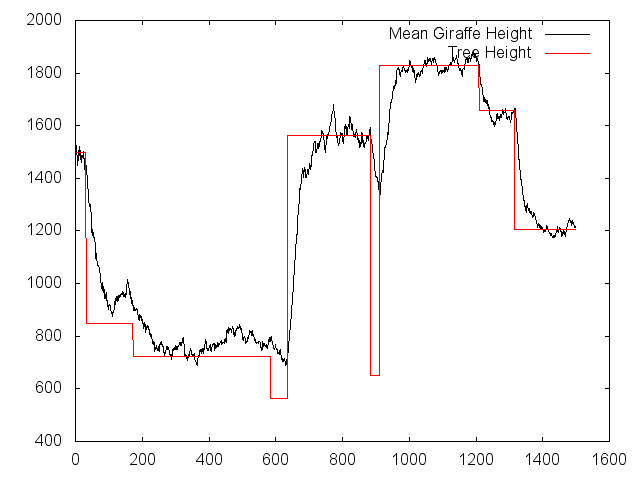
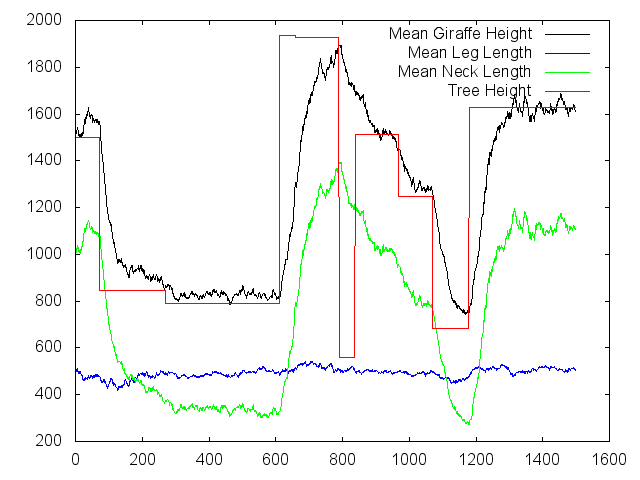
Legs are not necks and necks are not legs, but together they are bugs

diff --git a/src/statistics.rs b/src/statistics.rs
@@ -1,5 +1,5 @@
-extern crate gnuplot;
-extern crate statistical;
+use gnuplot;
+use statistical;
 
 use traits::HasColor;
 use traits::HasHeight;
@@ -12,6 +12,8 @@ pub struct Statistics {
     color_std_deviations:  Vec<f64>,
     height_means:          Vec<f64>,
     height_std_deviations: Vec<f64>,
+    leg_means:             Vec<f64>,
+    neck_means:            Vec<f64>,
     speed_means:           Vec<f64>,
     speed_std_deviations:  Vec<f64>,
     world_colors:          Vec<u32>,
@@ -27,6 +29,8 @@ impl Statistics {
             color_std_deviations:  vec![],
             height_means:          vec![],
             height_std_deviations: vec![],
+            leg_means:             vec![],
+            neck_means:            vec![],
             speed_means:           vec![],
             speed_std_deviations:  vec![],
             world_colors:          vec![],
@@ -45,14 +49,24 @@ impl Statistics {
             giraffe.height() as f64
         }).collect::<Vec<f64>>();
 
+        let leg_lengths = world.tower.iter().map(|giraffe| {
+            giraffe.leg_length() as f64
+        }).collect::<Vec<f64>>();
+
+        let neck_lengths = world.tower.iter().map(|giraffe| {
+            giraffe.neck_length() as f64
+        }).collect::<Vec<f64>>();
+
         let speeds = world.tower.iter().map(|giraffe| {
             giraffe.speed() as f64
         }).collect::<Vec<f64>>();
 
-        let color_mean   = statistical::mean(&colors);
-        let color_stddev = statistical::standard_deviation(&colors, None);
+        let color_mean    = statistical::mean(&colors);
+        let color_stddev  = statistical::standard_deviation(&colors, None);
         let height_mean   = statistical::mean(&sizes);
         let height_stddev = statistical::standard_deviation(&sizes, None);
+        let leg_mean      = statistical::mean(&leg_lengths);
+        let neck_mean     = statistical::mean(&neck_lengths);
         let speed_mean    = statistical::mean(&speeds);
         let speed_stddev  = statistical::standard_deviation(&speeds, None);
 
@@ -60,6 +74,8 @@ impl Statistics {
         self.color_std_deviations.push(color_stddev);
         self.height_means.push(height_mean);
         self.height_std_deviations.push(height_stddev);
+        self.leg_means.push(leg_mean);
+        self.neck_means.push(neck_mean);
         self.speed_means.push(speed_mean);
         self.speed_std_deviations.push(speed_stddev);
 
@@ -72,29 +88,13 @@ impl Statistics {
 
     pub fn print_latest(&self) {
         let latest_color_mean    = self.color_means.last();
-        let latest_color_stddev  = self.color_std_deviations.last();
         let latest_height_mean   = self.height_means.last();
-        let latest_height_stddev = self.height_std_deviations.last();
         let latest_speed_mean    = self.speed_means.last();
-        let latest_speed_stddev  = self.speed_std_deviations.last();
         let latest_world_color   = self.world_colors.last();
         let latest_lion_speed    = self.lion_speeds.last();
         let latest_tree_height   = self.tree_heights.last();
 
-        let mut has_stats = [
-            latest_color_mean,
-            latest_color_stddev,
-            latest_height_mean,
-            latest_height_stddev,
-            latest_speed_mean,
-            latest_speed_stddev
-        ].into_iter().all( |stat| !stat.is_none() );
-
-        if latest_tree_height.is_none() || latest_lion_speed.is_none() {
-            has_stats = false;
-        }
-
-        if has_stats {
+        if self.generations != 0 {
             println!(
                 "g-color: {}, color: {}, g-height: {}, t-height, {}, g-speed: {}, l-speed: {}",
                 latest_color_mean.unwrap(),
@@ -145,6 +145,16 @@ impl Statistics {
                 &x,
                 &self.height_means,
                 &[gnuplot::Caption("Mean Giraffe Height"), gnuplot::Color("black")]
+            )
+            .lines(
+                &x,
+                &self.leg_means,
+                &[gnuplot::Caption("Mean Leg Length"), gnuplot::Color("blue")]
+            )
+            .lines(
+                &x,
+                &self.neck_means,
+                &[gnuplot::Caption("Mean Neck Length"), gnuplot::Color("green")]
             )
             .lines(
                 &x,

diff --git a/src/giraffe.rs b/src/giraffe.rs
@@ -102,7 +102,7 @@ impl Giraffe {
     }
 
     pub fn neck_length(&self) -> u32 {
-        self.legs.iter().fold(0, |acc, &value| {
+        self.neck.iter().fold(0, |acc, &value| {
             acc + value as u32
         })
     }
@@ -138,7 +138,7 @@ impl CanMate for Giraffe {
         Giraffe {
             color: giraffe_lib::blend_chromosomes(&mutated1.color, &mutated2.color),
             legs:  giraffe_lib::blend_chromosomes(&mutated1.legs, &mutated2.legs),
-            neck:  giraffe_lib::blend_chromosomes(&mutated1.neck, &mutated2.legs)
+            neck:  giraffe_lib::blend_chromosomes(&mutated1.neck, &mutated2.neck)
         }
     }
 }

diff --git a/src/world.rs b/src/world.rs
@@ -107,7 +107,6 @@ fn calculate_fitness(world: &World, giraffe: &Giraffe) -> f32 {
         .fold(0.0, |acc, proportion| {
             (acc + proportion) as f32
         })
-        .cbrt()
 }
 
 fn generate_cumulative_densities(fitnesses: Vec<f32>) -> Vec<(f64, f64)> {

diff --git a/src/main.rs b/src/main.rs
@@ -3,6 +3,7 @@ extern crate rustc_serialize;
 extern crate nalgebra;
 extern crate kiss3d;
 extern crate gnuplot;
+extern crate statistical;
 
 mod solution_space;
 mod giraffe_lib;
